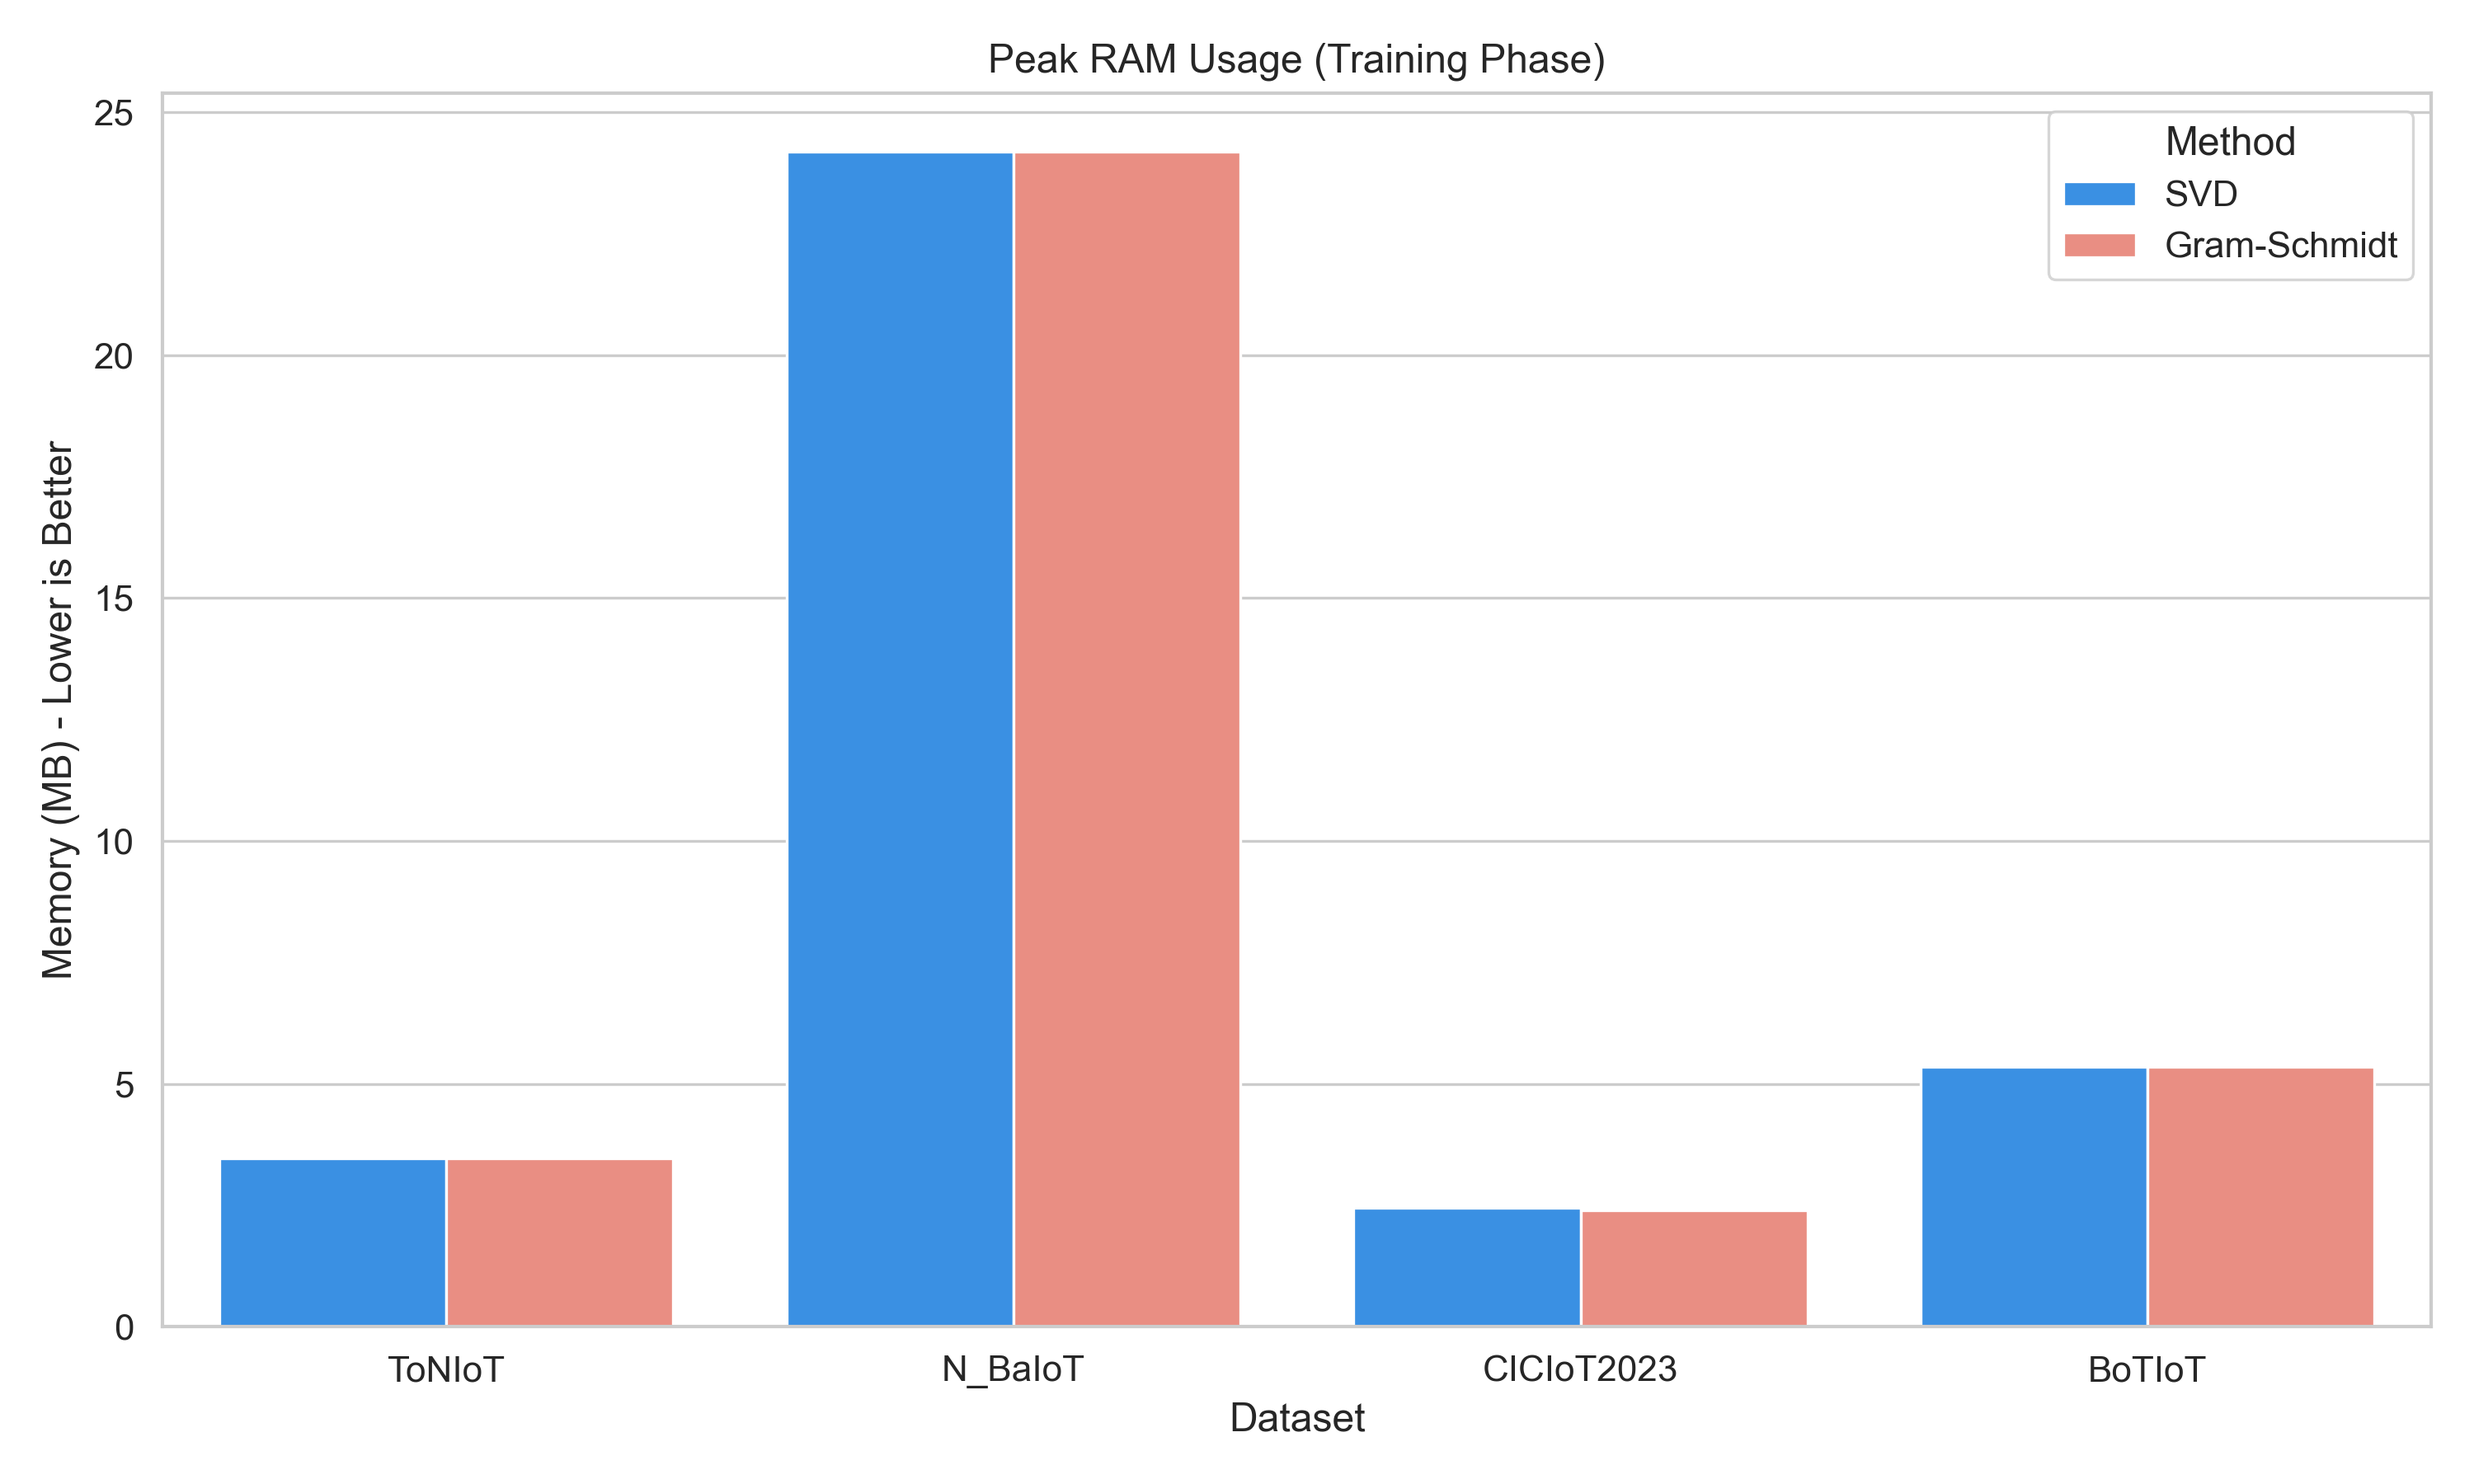
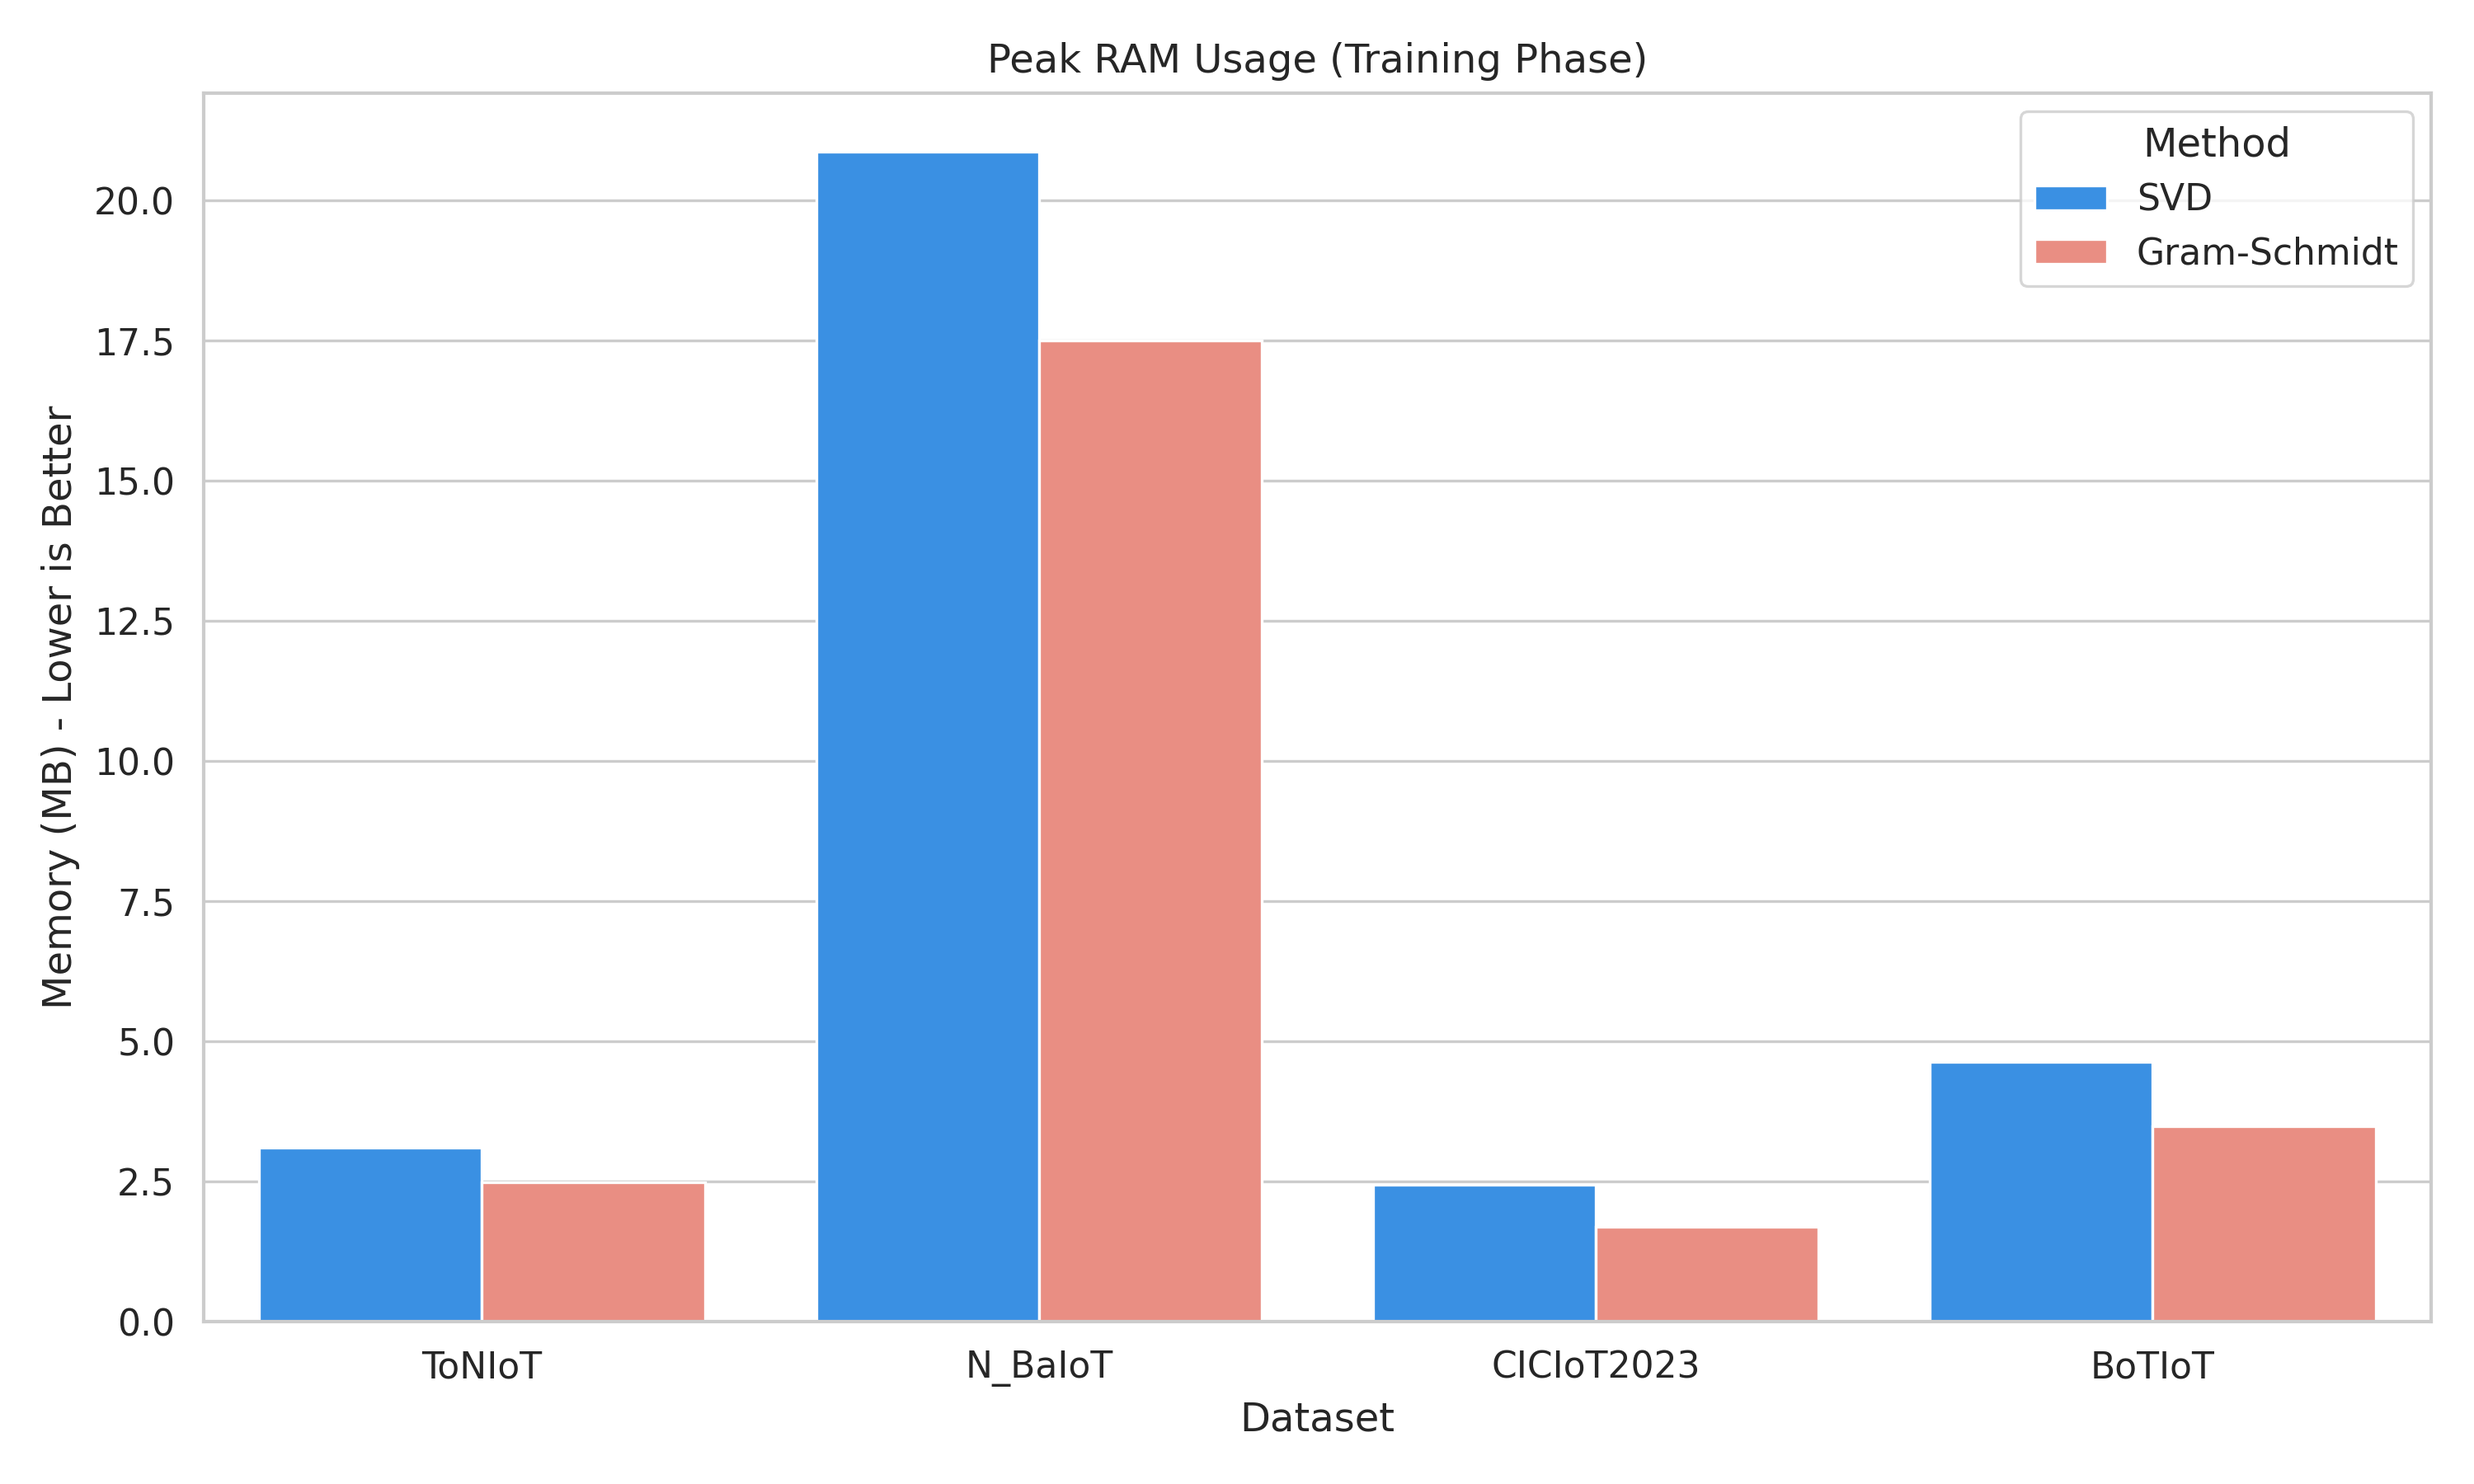
f

diff --git a/notebooks/analysis/svd_vs_gs/compare_svd_gs.py b/notebooks/analysis/svd_vs_gs/compare_svd_gs.py
@@ -10,6 +10,7 @@ from sklearn.metrics import (matthews_corrcoef, f1_score, precision_score,
                              recall_score, accuracy_score, roc_auc_score, 
                              average_precision_score)
 from sklearn.cluster import KMeans
+from sklearn.decomposition import PCA
 from sklearn.impute import SimpleImputer
 from scipy.spatial.distance import cdist
 from scipy.linalg import null_space
@@ -125,11 +126,55 @@ def evaluate_predictions(y_true, y_prob):
     auc_pr = average_precision_score(y_true_flipped, 1 - y_prob)
     return auc_roc * 100, auc_pr * 100
 
+def plot_2d_projections(dataset_name, projected_data, y_test):
+    os.makedirs("plots", exist_ok=True)
+    fig, axes = plt.subplots(1, 2, figsize=(14, 6))
+    
+    for ax, (method, X_proj) in zip(axes, projected_data.items()):
+        if X_proj.shape[1] > 2:
+            pca = PCA(n_components=2)
+            X_2d = pca.fit_transform(X_proj)
+        elif X_proj.shape[1] == 2:
+            X_2d = X_proj
+        elif X_proj.shape[1] == 1:
+            X_2d = np.hstack([X_proj, np.zeros_like(X_proj)])
+        else:
+            X_2d = np.zeros((X_proj.shape[0], 2))
+            
+        # Sample points if too large to avoid cluttered plots
+        n_samples = X_2d.shape[0]
+        if n_samples > 10000:
+            idx = np.random.choice(n_samples, 10000, replace=False)
+            X_plot = X_2d[idx]
+            y_plot = y_test[idx]
+        else:
+            X_plot = X_2d
+            y_plot = y_test
+            
+        # Rename labels for legend (0 -> Normal, 1 -> Anomaly)
+        labels = np.where(y_plot == 0, 'Normal (0)', 'Anomaly (1)')
+        palette = {'Normal (0)': 'dodgerblue', 'Anomaly (1)': 'salmon'}
+        
+        sns.scatterplot(x=X_plot[:, 0], y=X_plot[:, 1], hue=labels, palette=palette, ax=ax, alpha=0.5, s=20, edgecolor=None)
+        ax.set_title(f"{method} Projection (PCA 2D)")
+        ax.set_xlabel("Principal Component 1")
+        ax.set_ylabel("Principal Component 2")
+        
+    plt.suptitle(f"Projected Space Distribution: {dataset_name}", fontweight='bold')
+    plt.tight_layout()
+    plt.savefig(f"plots/Projection_2D_{dataset_name}.png", dpi=300)
+    plt.close()
+
 # ----------------- Pipeline -----------------
 def run_comparison():
     datasets = ['data_ToNIoT.csv', 'data_N_BaIoT.csv', 'data_CICIoT2023.csv', 'data_BoTIoT.csv']
     scaler = 'MinMaxScaler'
-    base_dir = r"d:\project (1)\GMM-nfst\Datascaled\NoiseOCData"
+    # Data directory can be set via the DATA_DIR environment variable for server deployments.
+    # Example: export DATA_DIR=/data/GMM-nfst/Datascaled/NoiseOCData
+    # Locally, it falls back to a relative path from this file.
+    _script_dir = os.path.dirname(os.path.abspath(__file__))
+    _default_data_dir = os.path.normpath(os.path.join(_script_dir, '..', '..', '..', 'Datascaled', 'NoiseOCData'))
+    base_dir = os.environ.get('DATA_DIR', _default_data_dir)
     results = []
 
     for ds in datasets:
@@ -157,6 +202,7 @@ def run_comparison():
         X_train_clustered, y_train_clustered, cluster_centers = cluster_kmeans(X_train, n_clusters)
         
         methods = {"SVD": calculate_NPD_svd, "Gram-Schmidt": calculate_NPD_gs}
+        projected_data_for_plot = {}
         
         for method_name, npd_func in methods.items():
             print(f"  --> Running {method_name} Variant...")
@@ -191,6 +237,8 @@ def run_comparison():
             y_prob_standardized = (y_prob - y_prob.min()) / (y_prob.max() - y_prob.min() + 1e-10)
             auc_roc, auc_pr = evaluate_predictions(y_test, y_prob_standardized)
             
+            projected_data_for_plot[method_name] = null_point_X_test
+            
             results.append({
                 "Dataset": ds.replace('data_', '').replace('.csv', ''),
                 "Method": method_name,
@@ -201,6 +249,9 @@ def run_comparison():
                 "Peak RAM Train (MB)": peak_train / 10**6,
                 "Peak RAM Test (MB)": peak_test / 10**6
             })
+            
+        ds_name = ds.replace('data_', '').replace('.csv', '')
+        plot_2d_projections(ds_name, projected_data_for_plot, y_test)
             
     df_results = pd.DataFrame(results)
     df_results.to_csv("svd_vs_gs_results.csv", index=False)
